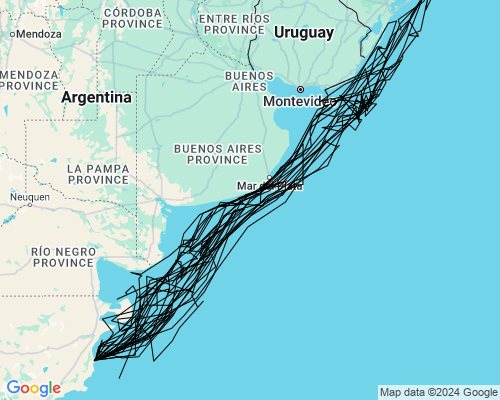
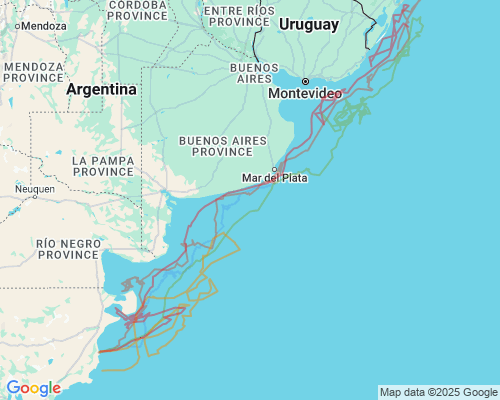
Chunk penguins into groups of 5, improve accuracy and give unique path colours to each penguin

Changed region(s): [[0.0, 0.0, 0.87, 1.0], [0.9, 0.96, 0.93, 0.99]]

diff --git a/app/SlashCommands/TrackPenguinCommand.php b/app/SlashCommands/TrackPenguinCommand.php
@@ -90,14 +90,37 @@ class TrackPenguinCommand extends SlashCommand
         $averages_lat = [];
         $averages_long = [];
         $path_string = '';  //Create a path for each penguin
+        $path_colors = [
+            '0x55ABEE' => ':blue_square:',
+            '0xC0684F' => ':brown_square:',
+            '0x77B058' => ':green_square:',
+            '0xF48F0B' => ':orange_square:',
+            '0xDC2D44' => ':red_square:'
+        ];
+
+        $path_keys = array_keys($path_colors);
+        $path_values = array_values($path_colors);
+        $items_per_page = 5;  // Items per page
+        $page = 1;            // Current page (for example, 1 for first, 2 for second, etc.)
+
+        // Calculate the starting index and ending index for the data
+        $start_index = ($page - 1) * $items_per_page;
+        $end_index = $start_index + $items_per_page;
+        $content = '';
 
         $data = json_decode(Storage::get('location_data.json'), true);
-        foreach($data['deployments'] as $deployment) {
-            //Start a new path for each penguin
-            $path_string .= '&path=color:0x000000FF|weight:1';
 
-            foreach($deployment['locations'] as $key => $location) {
-                if ( $key==0 || ($key+1)%18 == 0 ) //Attempt to reduce the number of path points, to every 5th point.
+        for ($i = $start_index; $i < $end_index; $i++) {
+            //Start a new path for each penguin
+            $path_string .= '&path=color:' . $path_keys[$i] . '|weight:2';
+            $penguin = $data['deployments'][$i];
+
+            $gender = null;
+            str_contains($penguin['title'], 'Male') ? $gender = ":male_sign:" : $gender = ":female_sign:";
+            $content .= $path_values[$i] . ' ' . $penguin['friendly_name'] . ' ' . $gender . "\n";
+
+            foreach($penguin['locations'] as $key => $location) {
+                if ( $key==0 || ($key+1)%3 == 0 ) //Due to chunking the results by every 5 penguins, we can increase the accuracy of data to one in every 3 path points.
                 {
                     //Add each penguin's lat & long to the averages
                     array_push($averages_lat, $location['latitude']);
@@ -145,10 +168,12 @@ class TrackPenguinCommand extends SlashCommand
             $this
               ->message()
               ->body('<a:nootnoot:1323756516855124048> Tracking ' . count($data['deployments']) . ' penguins: ')
-//              ->title('Tracking penguin: ' . $this->value('name', 'all'))
-//              ->content("Hello")
-//              ->footerText("Use /track [name] to track a singular penguin!")
+              ->title('Map Key: ')
+              ->content($content)
+              ->footerText("Use /track [name] to track a singular penguin!")
               ->filePath('./storage/track.png') //Maps API
+              ->button('<', route: 'back')
+              ->button('>', route: 'forward')
               ->build()
         );
     }
@@ -158,6 +183,16 @@ class TrackPenguinCommand extends SlashCommand
      */
     public function interactions(): array
     {
-        return [];
+        return [
+            'back' => fn (Interaction $interaction) =>
+            $this
+                ->message("You selected {$interaction->data->values[0]}.")
+                ->reply($interaction, ephemeral: true),
+
+            'forward' => fn (Interaction $interaction) =>
+            $this
+                ->message("You selected {$interaction->data->values[0]}.")
+                ->reply($interaction, ephemeral: true),
+        ];
     }
 }
